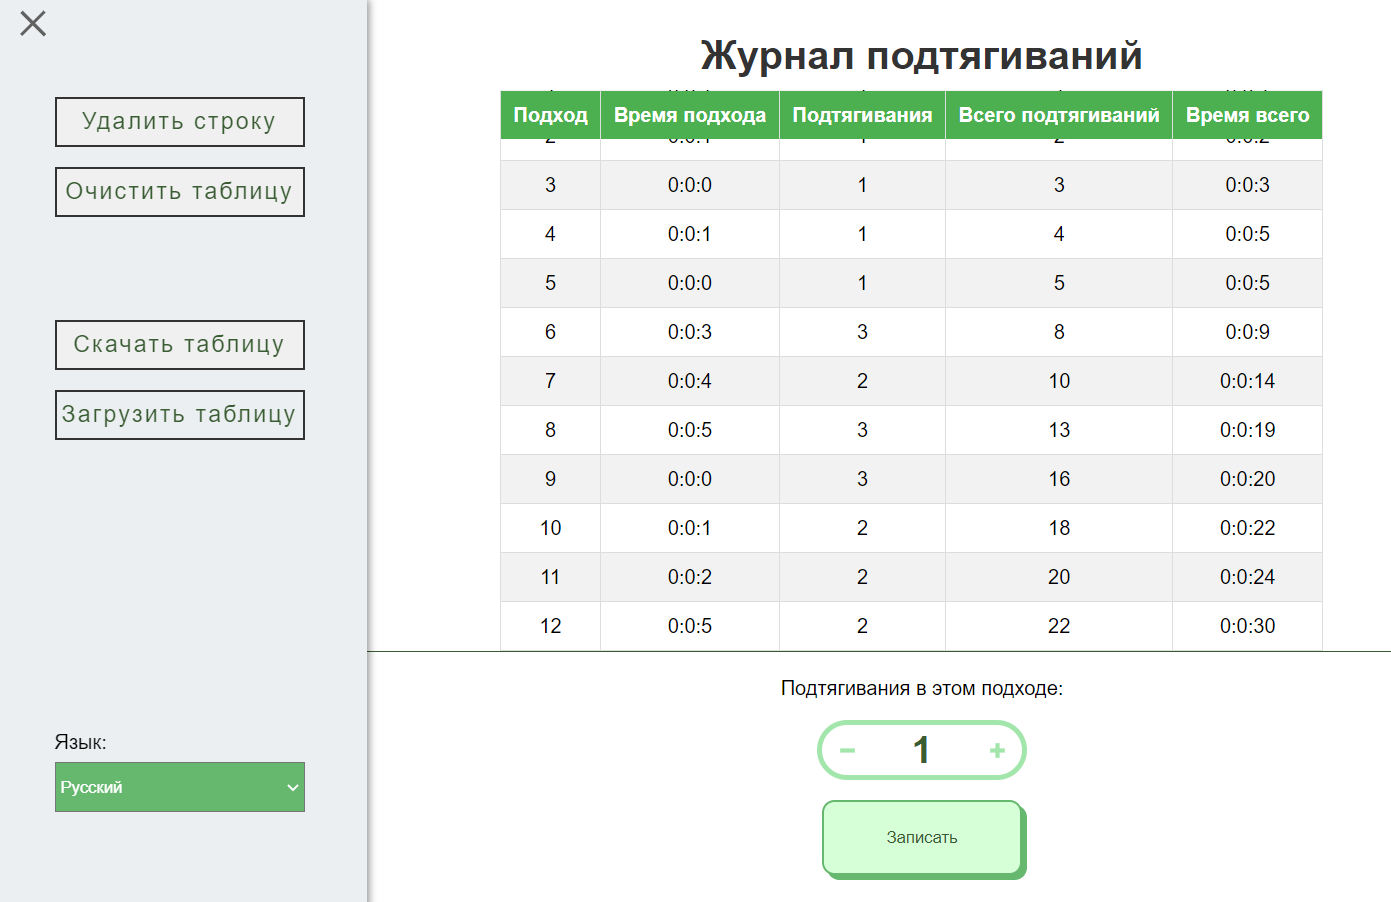
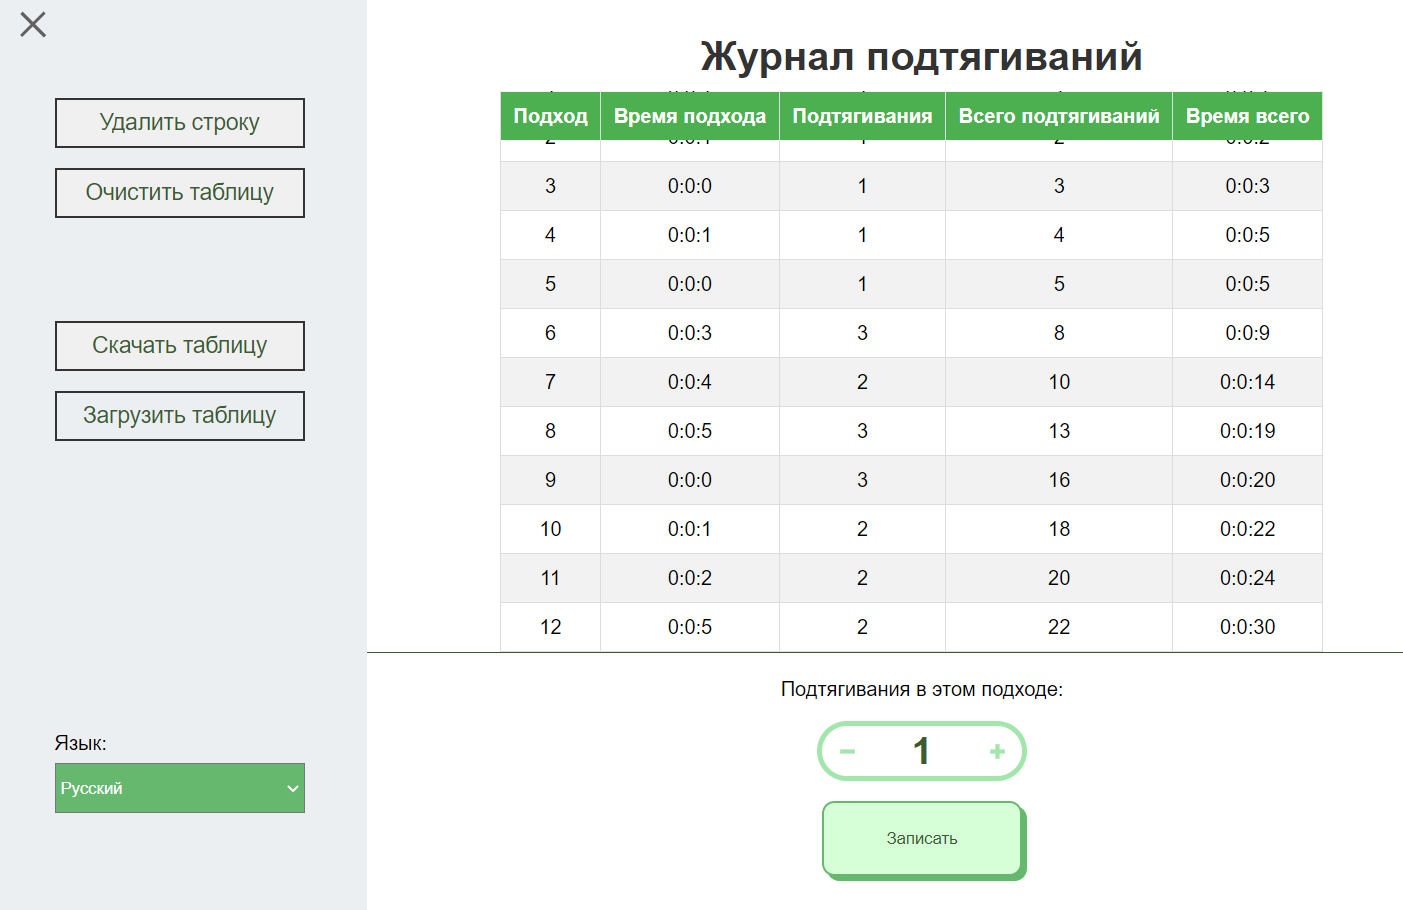
UPD v0.2.3

diff --git a/script.js b/script.js
@@ -61,17 +61,17 @@ function btnPlus() {
 let inputField = document.getElementById('input-pull-ups');
 
 // Add an input event listener to validate the input
-inputField.addEventListener('input', function() {
-  let inputValue = inputField.value.trim();
-  
-  // Use a regular expression to check if the input matches the desired pattern
-  let numberPattern = /^-?\d*$/;
-  let isValid = numberPattern.test(inputValue);
-  
-  // If the input is not valid, remove the last entered character
-  if (!isValid) {
-    inputField.value = inputValue.slice(0, -1);
-  }
+inputField.addEventListener('input', function () {
+    let inputValue = inputField.value.trim();
+
+    // Use a regular expression to check if the input matches the desired pattern
+    let numberPattern = /^-?\d*$/;
+    let isValid = numberPattern.test(inputValue);
+
+    // If the input is not valid, remove the last entered character
+    if (!isValid) {
+        inputField.value = inputValue.slice(0, -1);
+    }
 });
 
 
@@ -149,12 +149,13 @@ function importData() {
 function changeLanguage(lang = '') {
     lang = lang.length > 0 ? lang : document.getElementById('language').value;
 
-  document.getElementById('language').value = lang;
-  localStorage.setItem('langSave', lang);
+    document.getElementById('language').value = lang;
+    localStorage.setItem('langSave', lang);
+    const btns = document.getElementsByClassName('btn__stnd')
 
     if (lang === 'en') {
         document.getElementById('language-selector-label').innerText = "Language: ";
-        document.getElementById('title').innerText = "Pull Ups Logger";
+        document.querySelector('h1#title').innerText = "Pull Ups Logger";
         // document.getElementById('logged-sets').innerText = "Logged Sets";
         document.getElementById('pull-ups-label').innerText = "Pull ups current set:";
         document.getElementById('log-button').innerText = "Log";
@@ -162,6 +163,8 @@ function changeLanguage(lang = '') {
         document.getElementById('cancel-button').innerText = "Cancel Last Row";
         document.getElementById('download-button').innerText = "Download Table";
         document.getElementById('importt').innerText = "Import Table";
+
+        Array.prototype.forEach.call(btns,(btn) => btn.style["letter-spacing"] = "2px")
     } else {
         document.getElementById('language-selector-label').innerText = "Язык: ";
         document.querySelector('h1#title').innerText = "Журнал подтягиваний";
@@ -173,6 +176,7 @@ function changeLanguage(lang = '') {
         document.getElementById('clear-button').innerText = "Очистить таблицу";
         document.getElementById('cancel-button').innerText = "Удалить строку";
 
+        Array.prototype.forEach.call(btns,(btn) => btn.style["letter-spacing"] = 0)
     }
     renderTable();
 }
@@ -209,14 +213,14 @@ if (!langSave) {
     let browserLang = window.navigator.language || window.navigator.browserLanguage;
     langSave = browserLang;
     localStorage.setItem('langSave', browserLang);
-  }
+}
 
 
 // Check the saved language option and call changeLanguage accordingly
 if (langSave === 'ru') {
-  changeLanguage('ru');
+    changeLanguage('ru');
 } else {
-  changeLanguage('en');
+    changeLanguage('en');
 }
 
 renderTable();

diff --git a/style.css b/style.css
@@ -1,4 +1,5 @@
 @import url('https://fonts.googleapis.com/css?family=Rubik:700&display=swap');
+@import url("https://www.nerdfonts.com/assets/css/webfont.css");
 
 :root {
     --bg: #fff;
@@ -48,6 +49,7 @@ body {
     font-family: Arial, sans-serif;
     margin: 0;
     padding: 10px;
+    touch-action: none;
 }
 
 
@@ -127,7 +129,7 @@ h1 {
     padding: 80px 0;
     list-style: none;
     background-color: #ECEFF1;
-    box-shadow: 2px 2px 6px rgba(0, 0, 0, .4);
+    /* box-shadow: 2px 2px 6px rgba(0, 0, 0, .4); */
     transition-duration: .25s;
     z-index: 2;
 
@@ -204,6 +206,18 @@ select {
     background: var(--color-main-border);
 }
 
+/* select#language {
+    -webkit-appearance: none;
+    padding-left: 5px;
+}
+select#language::after,
+select#language::before {
+    content: "asdfasdfV";
+    color: #333;
+    height: 10px;
+    z-index: 3;
+} */
+
 .flex-column li:last-child {
     margin-top: auto;
     align-items: flex-end;
@@ -212,60 +226,20 @@ select {
     border-radius: 15%; */
     
 }
-/* ==============Input Field. Plus Minus===================*/
-
-.input-container {
-    display: flex;
-    flex-direction: column;
-    width: 100%;
-    justify-content: center;
-    align-items: center;
-    gap: 1rem;
-    margin-top: 20px;
-}
 
 
 
-.quantity_inner {
+
+/* ================Table ======================== */
+
+.table-container {
+    height: 60vh;
+    overflow-y: auto;
     display: flex;
     justify-content: center;
-    align-items: center;
-    text-align: center;
-    border-radius: 26px;
-    border: 4px solid var(--color-input-stroke);
-}
+    align-items: flex-start;
+    margin: 0 auto;
 
-.quantity_inner .bt_minus,
-.quantity_inner .bt_plus {
-    height: var(--input-Btn-height);
-    width: var(--input-Btn-width);
-}
-.quantity_inner #input-pull-ups {
-    width: var(--input-number-field-width);
-    text-align: center;
-    font-size: 30px;
-    font-weight: bold;
-    color: var(--text);
-    /* font-family: Menlo, Monaco, Consolas, "Courier New", monospace; */
-}
-.quantity_inner .bt_minus,
-.quantity_inner .bt_plus,
-.quantity_inner #input-pull-ups {
-    padding: 0;
-    border: 0;
-    margin: 0;
-    background: transparent;
-    cursor: pointer;
-    outline: 0;
-}
-
-
-.quantity_inner .bt_minus svg,
-.quantity_inner .bt_plus svg {
-    stroke: var(--color-sign);
-    stroke-width: 4;
-    transition: 0.15s;
-    margin: 10px;
 }
 
 .quantity_inner .bt_minus:hover svg,

diff --git a/index.html b/index.html
@@ -12,6 +12,7 @@
 
     <div class="hamburger-menu">
         <input id="menu__toggle" type="checkbox" />
+        
         <label class="menu__btn" for="menu__toggle">
             <span></span>
         </label>
@@ -53,7 +54,7 @@
 
     <h1 id="title">Pull Ups Logger</h1>
 
-    <!-- <h2 id="logged-sets">Logged Sets</h2> -->
+
     <div class="table-container">
         <table id="log-table">
             <!-- ... -->
@@ -68,11 +69,7 @@
                     <line x1="5" y1="12" x2="19" y2="12"></line>
                 </svg>
             </button>
-            <!-- <label for="pull-ups" id="pull-ups-label">
-                <span>Pull ups current set:</span>
-            </label> -->
             <input type="text" class="quantity" id="input-pull-ups" min="1" value="1" >
-            <!-- <input type="text" id="pull-ups" value="1" size="2" class="quantity" data-max-count="20" /> -->
             <button class="bt_plus" onclick="btnPlus()">
                 <svg viewBox="0 0 24 24">
                     <line x1="12" y1="5" x2="12" y2="19"></line>
